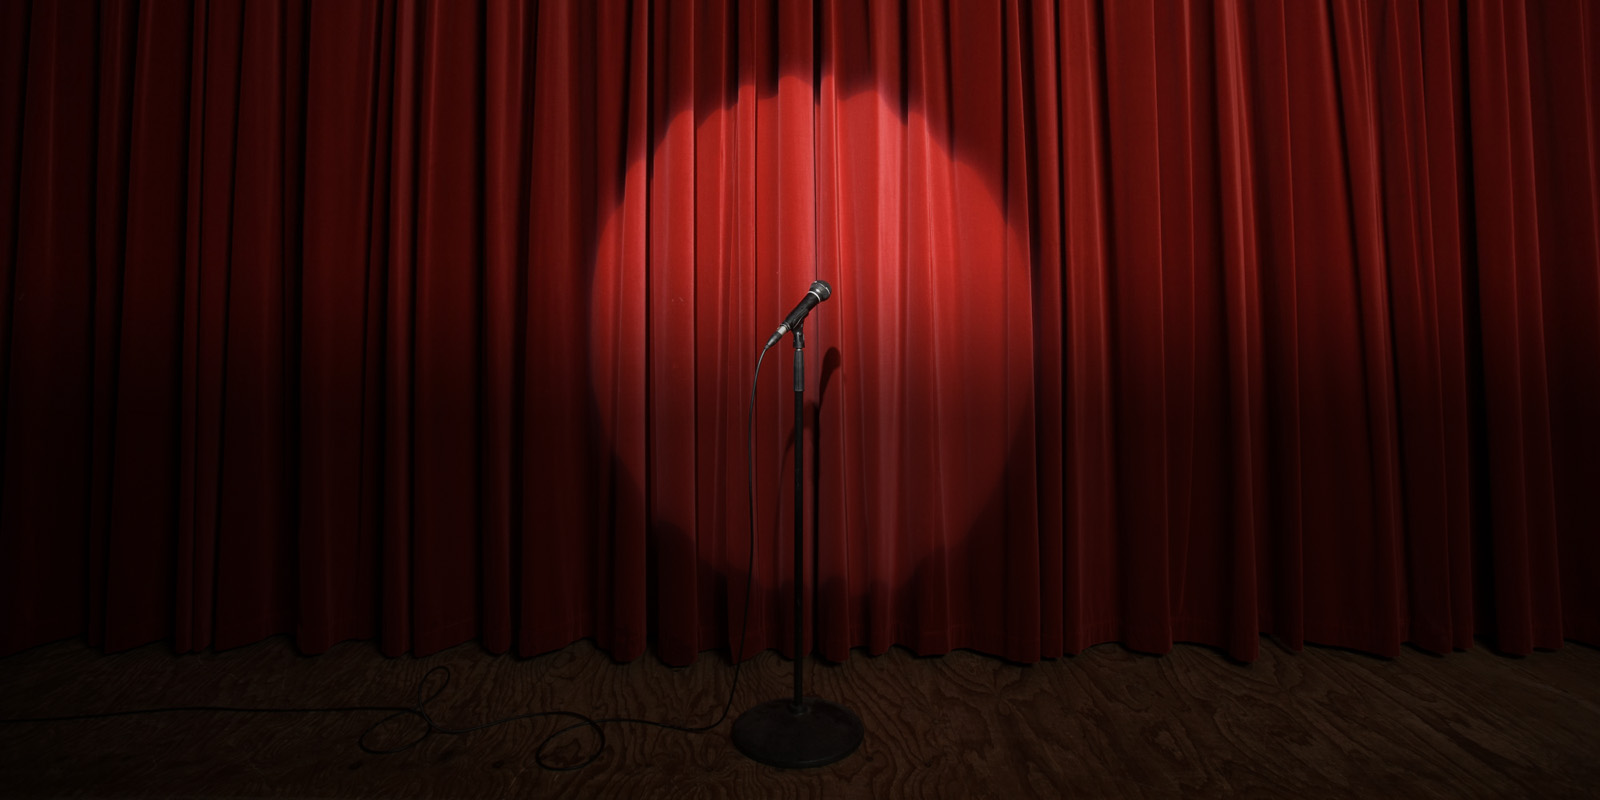
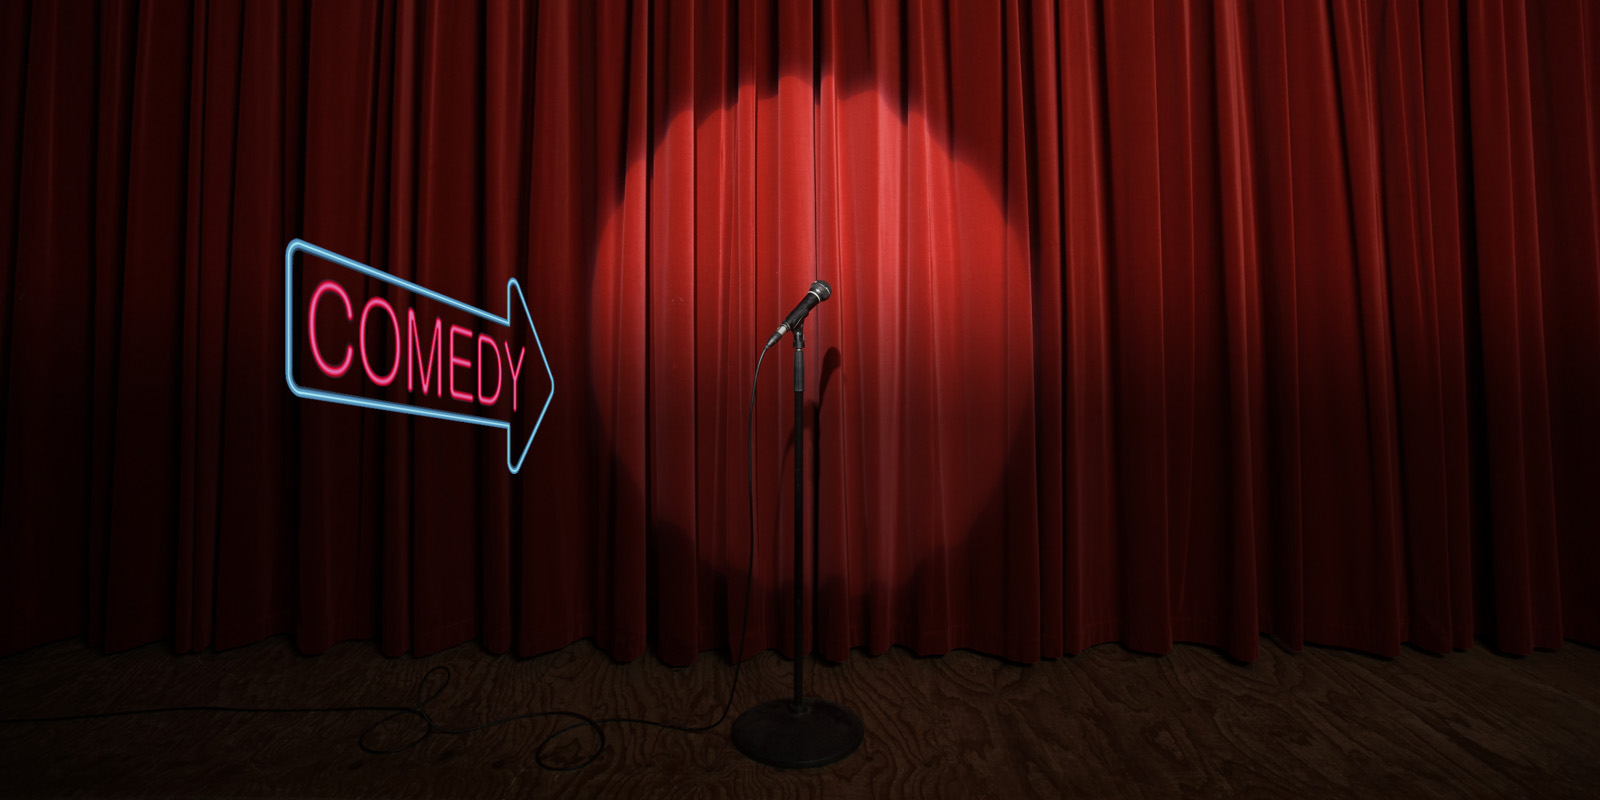
added some graphics

Changed region(s): [[0.1562, 0.2812, 0.3438, 0.5938]]

diff --git a/midterm/public/stylesheets/application.css b/midterm/public/stylesheets/application.css
@@ -100,7 +100,7 @@ h1.home-title {
 
 
 .top-page {
-     background-image: url('../images/red copy.jpg');
+     background-image: url('../images/red copy final.png');
      background-repeat: no-repeat;
      background-size:cover;
      background-position: center center;
@@ -161,8 +161,14 @@ h1.home-title {
   margin-left:50px;
   margin-right:80px;
   color: black;
+   box-shadow: 2px 2px 2px black;
 }
 
+.venue-event:hover {
+  position: relative;
+  top: 2px;
+    opacity: 0.7;
+}
 .first-block {
   background: #404040;
   height: 150px;
@@ -189,8 +195,26 @@ h1.home-title {
   text-align: center;
   color:white;
 }
-  #mymap {
-        width: 500px;
-        height: 400px;
-        background-color:#CCC;
-      }
+
+
+
+.current-event:hover {
+  position: relative;
+  top:2px;
+    opacity: 0.7;
+}
+
+.home-comedians {
+
+   height: 100%;
+   width: 100%;
+}
+#upcoming-events {
+  display: block;
+  margin-left: auto;
+  margin-right: auto;
+  position: relative;
+  top:-20px;
+
+}
+
